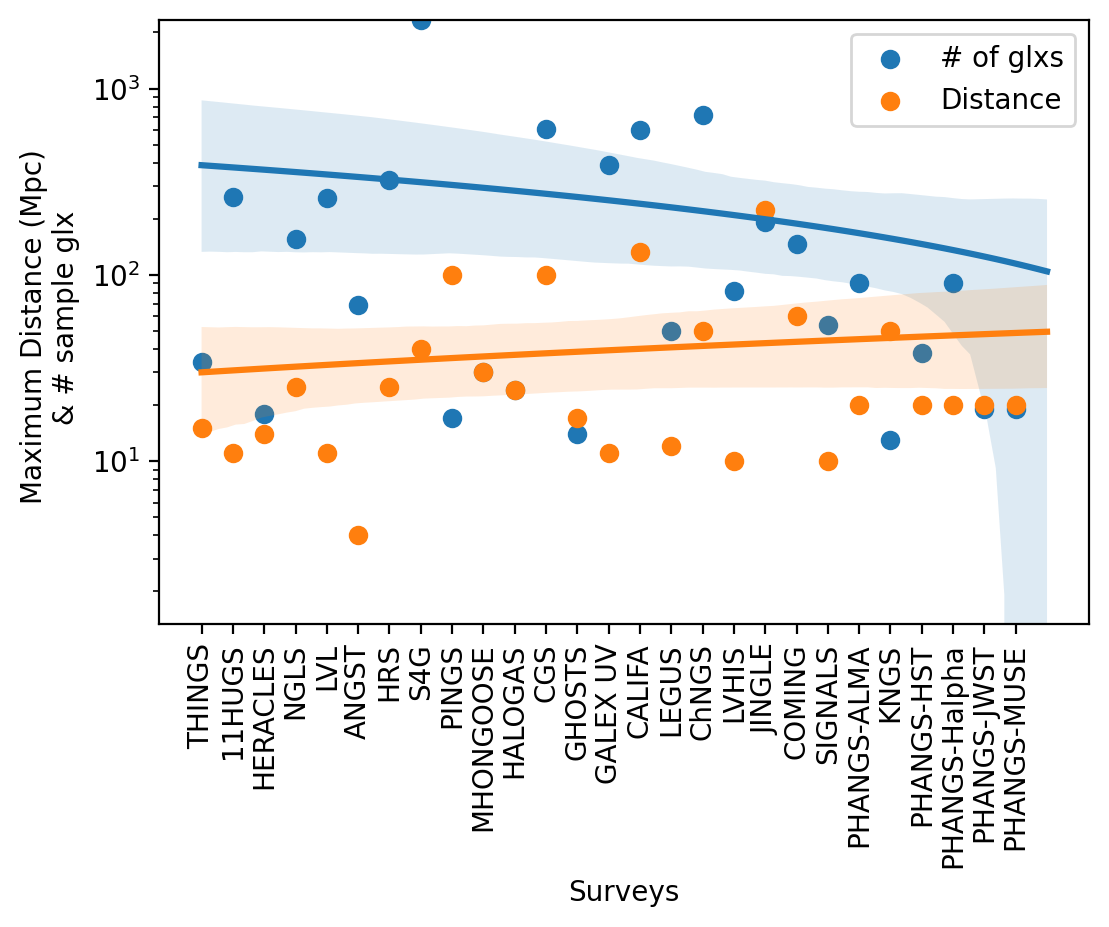
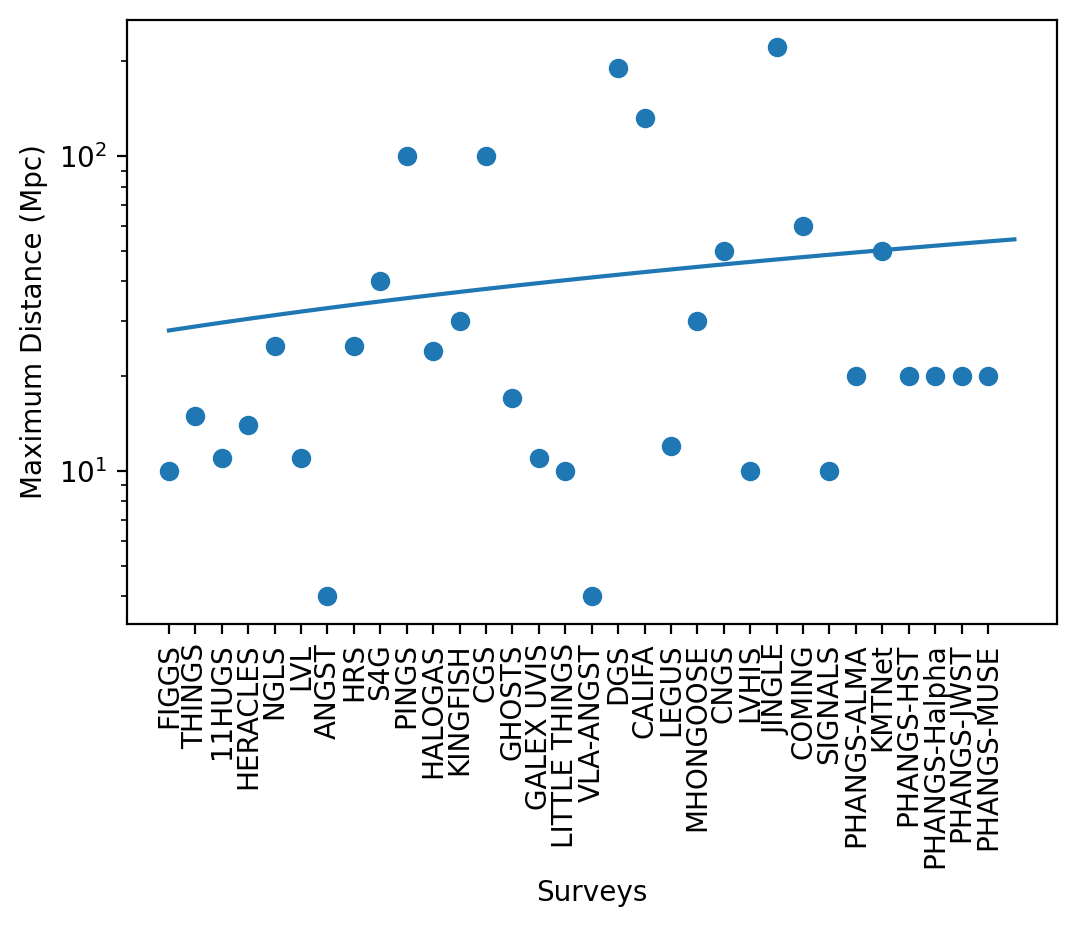
updating plots

diff --git a/obs_wave.py b/obs_wave.py
@@ -7,10 +7,11 @@ import numpy as np
 
 
 # Import your data
-df = pd.read_csv('survey_dat.txt', delimiter='\t', header=0, nrows=30)
+df = pd.read_csv('survey_dat.txt', delimiter='\t', header=0, nrows=50)
 
 surveys = df.iloc[:, 0]
 year = df.iloc[:, 1]
+print(year)
 wave = df.iloc[:, -2]
 s_type = df.iloc[:, -1]
 
@@ -26,7 +27,7 @@ wave_mapping = {band: i for i, band in enumerate(wavelength_bands)}
 fig, ax = plt.subplots()
 
 # Define a color map based on unique 'Wavelength' values
-color_map = plt.cm.get_cmap('Spectral', len(wavelength_bands))
+color_map = plt.cm.get_cmap('Spectral', len(wavelength_bands)+2)
 
 
 # Iterate through the data and plot points with labels
@@ -42,6 +43,7 @@ for i in range(len(surveys)):
 
     color = color_map(x / len(wavelength_bands))  # Assign a unique color based on the 'Wavelength' label
     ax.scatter(x, y, s=80, marker= 'o', color=color, zorder=1)
+    ax.scatter(x,y, s=85,  marker = 'o', facecolors='none', edgecolors='black', alpha = 0.75)
 
     if survey_type == 'Imaging':
         marker_style = 'o'  # Circle marker for 'imaging'
@@ -56,7 +58,7 @@ for i in range(len(surveys)):
         marker_style = '*'  # Star marker for 'both'
         size = 25
         label = 'both'
-    ax.scatter(x, y, s=size, label=label, marker=marker_style, color='black', zorder=2, alpha = 0.5)
+    #ax.scatter(x, y, s=size, label=label, marker=marker_style, color='black', zorder=2, alpha = 0.5)
 
     survey_name = surveys[i]
     survey_year = year[i]
@@ -68,7 +70,7 @@ for i in range(len(surveys)):
 
     color = color_map(x / len(wavelength_bands))  # Assign a unique color based on the 'Wavelength' label
     
-    ax.scatter(x, y, s=50, label=label, marker=marker_style, color=color)
+    #ax.scatter(x, y, s=50, label=label, marker=marker_style, color=color)
 
 # Set labels and ticks
 ax.set_xticks(range(len(wavelength_bands)))
@@ -82,11 +84,11 @@ ax.grid(True, alpha=0.5)
 label_handles = ['Imaging', 'Spec', 'Both']
 #legend = ax.legend(loc='upper left', bbox_to_anchor=(1, 1), title='Types of Surveys', fontsize=8)
 #legend.set_bbox_to_anchor((1.01, 0.8))
-plt.legend()
+#plt.legend()
 
 plt.tight_layout()
-plt.show()
-#plt.savefig('obs_bands.png', dpi = 200)
+#plt.show()
+plt.savefig('obs_bands.png', dpi = 200)
 
 #%%
 min_num = min(num_G)

diff --git a/year_numglx.py b/year_numglx.py
@@ -8,7 +8,7 @@ import pandas as pd
 import seaborn as sns
 import matplotlib.pyplot as plt
 # %%
-df = pd.read_csv('C:/Users/hchri/OneDrive/Documents/GitHub/Galaxy-Surveys-Paper/dates.txt',  delimiter='\t', header=0, nrows=30)
+df = pd.read_csv('survey_info_Ysort.txt',  delimiter='\t', header=0, nrows=50)
 
 surveys = df.iloc[:, 0]
 
@@ -21,29 +21,35 @@ print(max_D)
 
 #%%
 
-
 x_dat = np.linspace(0, len(num_G), len(num_G))
 plt.scatter(surveys,num_G, label = '# of glxs')
+
 plt.xticks(rotation=90)  # Rotate x-axis labels for better readability
 plt.yscale('log')
-sns.regplot(x = x_dat, y = num_G, scatter= False, fit_reg = True)
-'''
+
+a, b = np.polyfit(x_dat, num_G, 1)
+plt.plot(x_dat, a*x_dat+b)
+#plt.fill_between(x_dat, y1 = (a*x_dat+b)-st_dev, y2 = (a*x_dat+b)+st_dev)
+#sns.regplot(x = x_dat, y = num_G, scatter= False, fit_reg = True)
+
 plt.ylabel('log(# galaxies)')
 plt.xlabel('Surveys')
+#plt.show()
 plt.savefig('num_glx.png', bbox_inches = 'tight', dpi = 200)
-'''
+
 #%%
 
 x_dat = np.linspace(0, len(max_D), len(max_D))
 plt.scatter(surveys,max_D, label = 'Distance')
 plt.xticks(rotation=90)  # Rotate x-axis labels for better readability
 sns.regplot(x = x_dat, y = max_D, scatter= False, fit_reg = True)
-plt.ylabel('Maximum Distance (Mpc) \n & # sample glx')
+plt.ylabel('Maximum Distance (Mpc)')
 plt.xlabel('Surveys')
 plt.yscale('log')
-plt.ylim(0, max(num_G)+10)
-plt.legend()
-plt.savefig('both.png', bbox_inches = 'tight', dpi = 200)
+#plt.ylim(0, max(num_G))
+#plt.legend()
+plt.show()
+#plt.savefig('both.png', bbox_inches = 'tight', dpi = 200)
 
 #%%
 min_num = min(max_D)

diff --git a/sky_plot.py b/sky_plot.py
@@ -53,25 +53,34 @@ for i in range(0, len(ra)):
 # Plot the points
 ax.scatter(ra_vals, dec_vals, s=10, label='Astronomical Coordinates', alpha = 0.5)
 
+
 # Define the galactic coordinates for the galactic plane
-l_value = np.linspace(-180,180, 100) * u.deg  # Adjust as needed
-b_value = [0]*100*u.deg  # Create a list of 100 zeros
+l_value = np.linspace(0, 360-0.01, 100)
+b_value = [0] * 100 
+
+
 
 # Convert galactic coordinates to equatorial coordinates
-gal_plane = SkyCoord(l=l_value, b=b_value, frame=Galactic)
+gal_plane = SkyCoord(l=l_value, b=b_value, frame=Galactic, unit = 'deg').icrs
 
 # Get the corresponding equatorial coordinates
-gal_ra = gal_plane.icrs.ra
-gal_dec = gal_plane.icrs.dec
+
+
+#gal_ra = gal_ra*u.deg
+#gal_dec = gal_dec*u.deg
+
+print(gal_plane[0])
 
 # Plot the galactic plane
-plt.plot(gal_ra.radian, gal_dec.radian, linestyle='-', color='b')
+plt.plot(gal_plane.ra*u.rad, gal_plane.dec*u.rad, linestyle='-', color='b')
+
 
 
 # Customize the plot as needed
 ax.set_title('Survey Coverage')
 ax.set_xticklabels(['14h','16h','18h','20h','22h','0h','2h','4h','6h','8h','10h'])
 ax.grid()
+
 plt.show()
 
-plt.savefig('skyPlot.png', bbox_inches = 'tight', dpi = 200)
+#plt.savefig('skyPlot.png', bbox_inches = 'tight', dpi = 200)

diff --git a/wave_info.py b/wave_info.py
@@ -31,7 +31,7 @@ fig, ax = plt.subplots()
 
 #Get a colormap and create a cycle of distinct colors based on the number of data points
 # Get a cycle of custom colors
-colors = iter(custom_colors)
+colors = iter(custom_color_list)
 
 
 # Iterate through the data and plot points with labels
@@ -60,7 +60,7 @@ ax.set_title('Observed Wavelenth Bands')
 ax.grid(True)
 
 # Add a legend
-ax.legend(loc= [1, 0], title='Surveys', fontsize = 8)
+#ax.legend(loc= [1, 0], title='Surveys', fontsize = 8)
 
 plt.tight_layout()
 plt.show()
